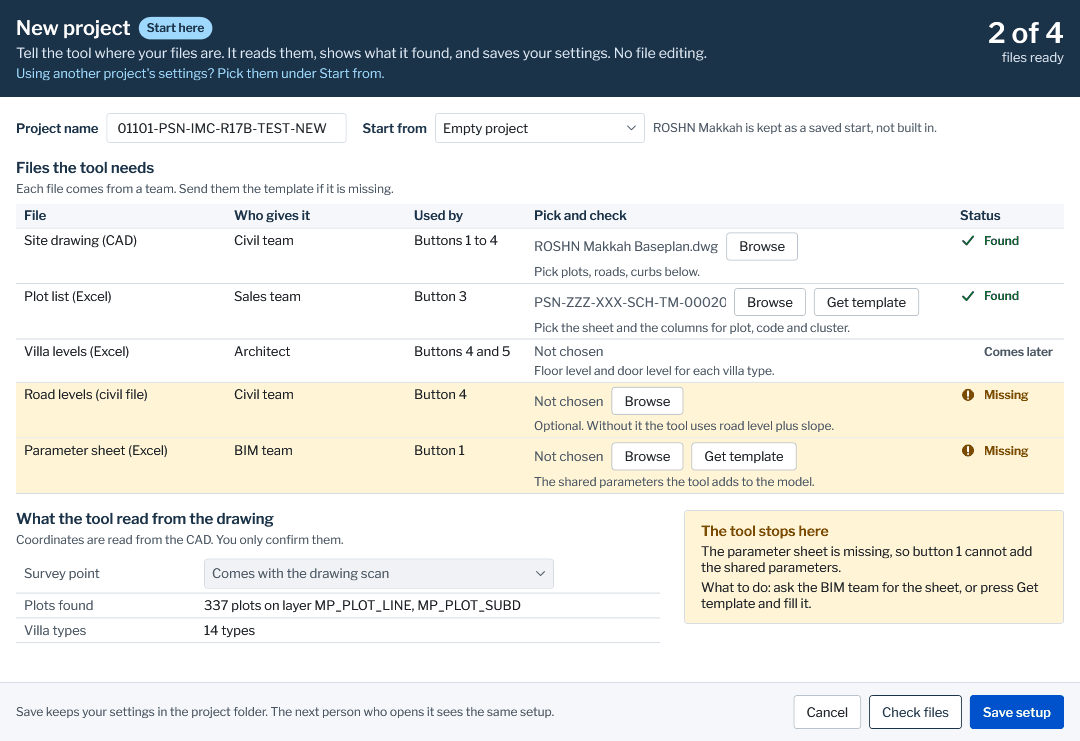
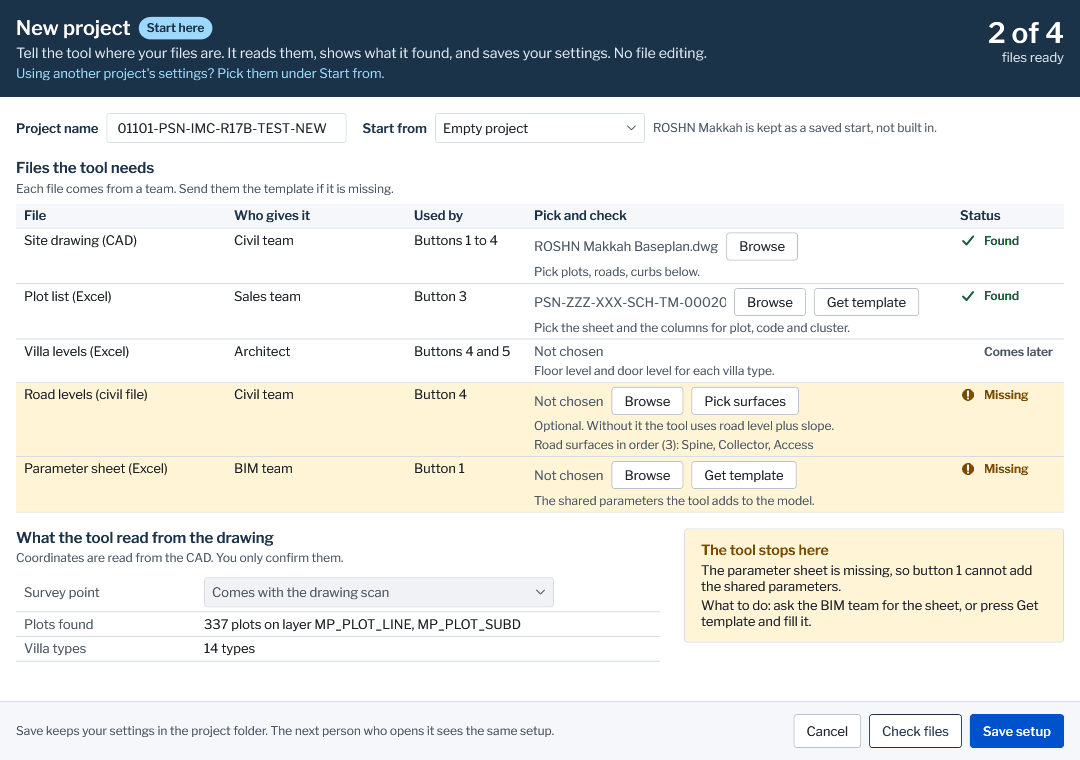
R492 pane row layout keeps Browse in the row grid, shots drawn as drafts

diff --git a/dotnet/SiteAdaptation.AddIn/Pane/SitePanePage.xaml b/dotnet/SiteAdaptation.AddIn/Pane/SitePanePage.xaml
@@ -43,18 +43,17 @@
               <ColumnDefinition Width="{StaticResource SA.Grid.Label}" />
               <ColumnDefinition Width="*" />
               <ColumnDefinition Width="Auto" />
+              <ColumnDefinition Width="Auto" />
             </Grid.ColumnDefinitions>
             <ContentControl Content="{Binding}" ContentTemplate="{StaticResource RowMark}" />
             <TextBlock Grid.Column="1" Style="{StaticResource SA.Type.Body}" VerticalAlignment="Center" Text="{Binding Label}" />
             <TextBlock Grid.Column="2" Style="{StaticResource SA.Type.Body}" VerticalAlignment="Center" Margin="{StaticResource SA.Gap.Right8}"
                        TextTrimming="CharacterEllipsis" ToolTip="{Binding ToolTip}" Text="{Binding FileName}" />
-            <StackPanel Grid.Column="3" Orientation="Horizontal" VerticalAlignment="Center">
-              <!-- R492. Pick surfaces of the row Road surface, grey with its reason as the tooltip under a past job -->
-              <Button Style="{StaticResource SA.Button.Base}" Margin="{StaticResource SA.Gap.Right8}" Content="{x:Static pane:PaneText.PickSurfaces}" Click="OnPickSurfaces"
-                      Visibility="{Binding HasSurfaces, Converter={StaticResource Shown}}" IsEnabled="{Binding SurfacesEnabled}"
-                      ToolTip="{Binding SurfacesTip}" ToolTipService.ShowOnDisabled="True" />
-              <Button Style="{StaticResource SA.Button.Base}" Content="Browse" Click="OnBrowse" />
-            </StackPanel>
+            <!-- R492. Pick surfaces of the row Road surface, grey with its reason as the tooltip under a past job -->
+            <Button Grid.Column="3" Style="{StaticResource SA.Button.Base}" VerticalAlignment="Center" Margin="{StaticResource SA.Gap.Right8}" Content="{x:Static pane:PaneText.PickSurfaces}" Click="OnPickSurfaces"
+                    Visibility="{Binding HasSurfaces, Converter={StaticResource Shown}}" IsEnabled="{Binding SurfacesEnabled}"
+                    ToolTip="{Binding SurfacesTip}" ToolTipService.ShowOnDisabled="True" />
+            <Button Grid.Column="4" Style="{StaticResource SA.Button.Base}" VerticalAlignment="Center" Content="Browse" Click="OnBrowse" />
           </Grid>
           <Grid Visibility="{Binding HasSurfaces, Converter={StaticResource Shown}}">
             <Grid.ColumnDefinitions>

diff --git a/dotnet/SiteAdaptation.UiShots/Shots.cs b/dotnet/SiteAdaptation.UiShots/Shots.cs
@@ -41,7 +41,11 @@ namespace SiteAdaptation.UiShots
         public const string HowItWorks = "how-it-works";
         public const string ScanResults = "scan-results";
         public const string RoadSurfaces = "road-surfaces";
-        public static readonly string[] Windows = { RibbonIcons, Pane, PaneFirstOpen, SetUpSite, ReviewData, Rules, CheckTable, UpdateFromReport, NewProject, HowItWorks, ScanResults, RoadSurfaces };
+        public static readonly string[] Windows = { RibbonIcons, Pane, PaneFirstOpen, SetUpSite, ReviewData, Rules, CheckTable, UpdateFromReport, NewProject, HowItWorks, ScanResults };
+
+        // R492. Drawn by the command line and Render, not in Windows: UiShotTests counts 11 windows and holds each of them to the sizes of the spec,
+        // so the window Road surfaces joins Windows once Bader approves its draft and that test follows
+        public static readonly string[] Drafts = { RoadSurfaces };
 
         private const double Dpi = 96.0;
 
@@ -69,7 +73,7 @@ namespace SiteAdaptation.UiShots
         {
             Directory.CreateDirectory(folder);
             var written = new List<string>();
-            foreach (string window in Windows)
+            foreach (string window in Windows.Concat(Drafts))
             {
                 string path = Path.Combine(folder, window + ".png");
                 File.WriteAllBytes(path, Png(Render(window)));
